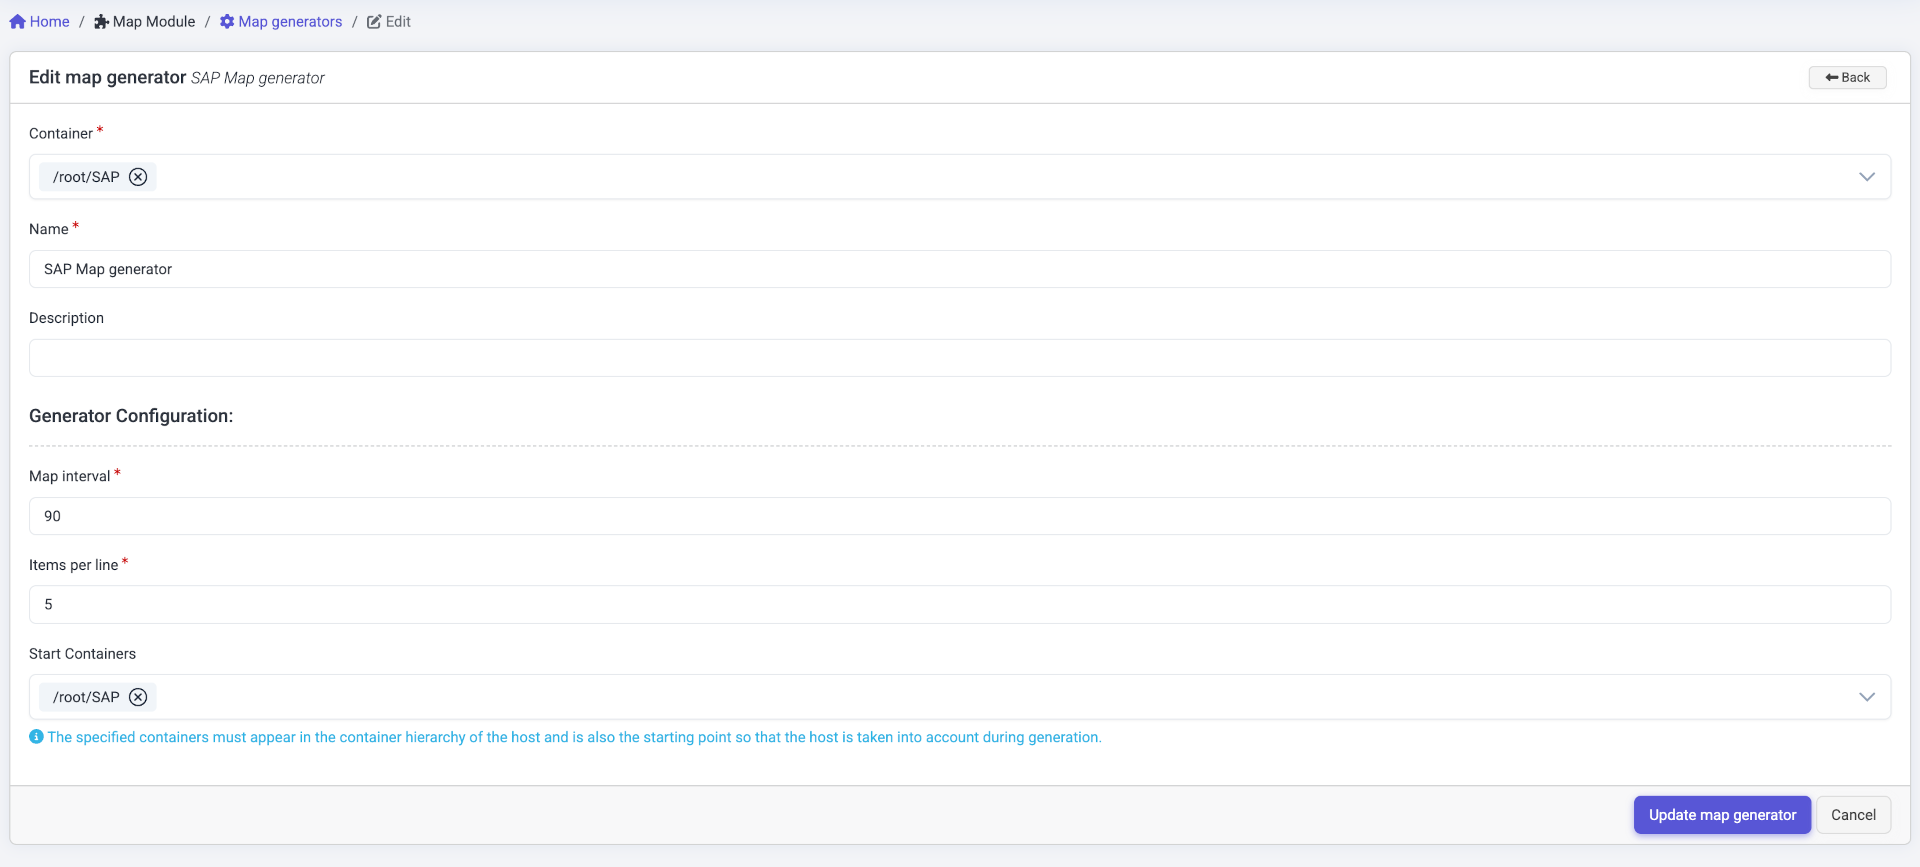
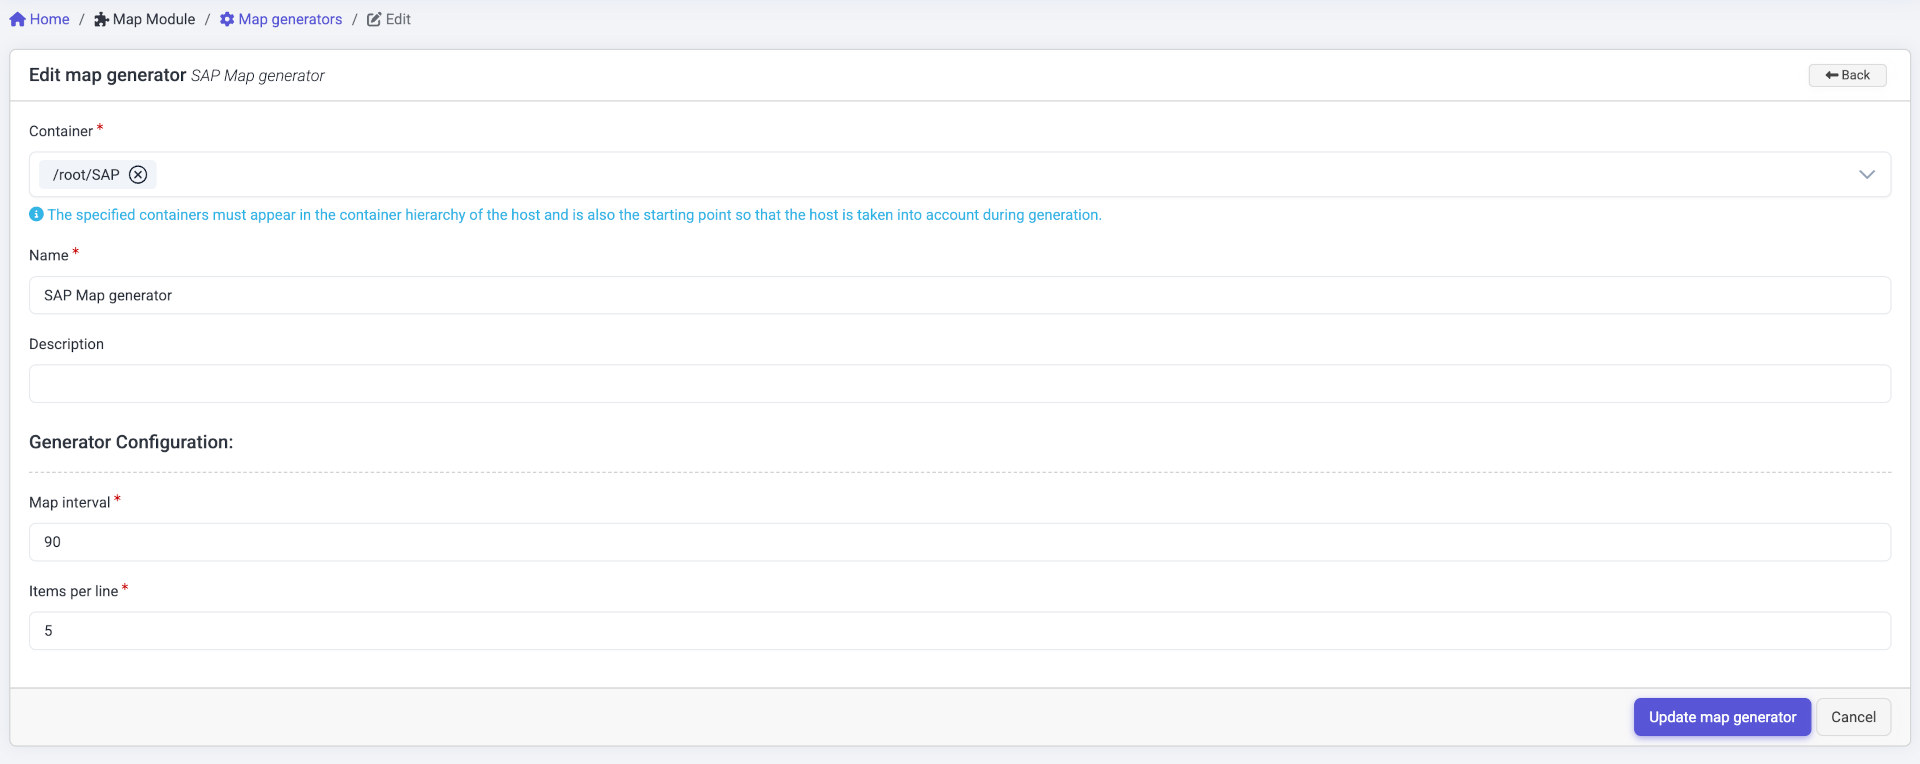
ITC-3484 - removed start_containers explanation

diff --git a/de/docs/monitoring/maps.md b/de/docs/monitoring/maps.md
@@ -187,15 +187,15 @@ Karten Generatoren können automatisch Karten mit Zusammenfassungselementen erst
 
 #### Generierung durch Container-Struktur
 
-Als Ausgangspunkt der Generierung dienen die Hosts. Es werden alle Hosts sowie Container von jeden Host bis zum Mandanten-Container berücksichtigt. Für jeden dieser Container wird eine Karte erstellt. Karten/Container, die hierarchisch in der Container-Struktur weiter unten stehen, werden den darüberliegenden Karten als Zusammenfassungselemente hinzugefügt, sodass die Container-Struktur durchgeklickt werden kann. Hosts werden ebenfalls der generierten Karte, die den zugewiesenen Container darstellt, als Zusammenfassungselemente hinzugefügt.
+Als Ausgangspunkt der Generierung dienen die Hosts. Es werden alle Hosts sowie Container von jeden Host bis zu den angegebenen Container berücksichtigt. Für jeden dieser Container wird eine Karte erstellt. Karten/Container, die hierarchisch in der Container-Struktur weiter unten stehen, werden den darüberliegenden Karten als Zusammenfassungselemente hinzugefügt, sodass die Container-Struktur durchgeklickt werden kann. Hosts werden ebenfalls der generierten Karte, die den zugewiesenen Container darstellt, als Zusammenfassungselemente hinzugefügt.
 
 ![](/images/mapmodule-mapgeneratormapexample.png)
 
-Die Generierung kann durch die Angabe von Start-Containern eingeschränkt werden. Wenn Start-Container definiert sind, muss einer dieser Container in der Container-Hierarchie des Hosts bis zum Mandanten-Container vorkommen. Andernfalls wird der Host sowie dessen Hierarchie ignoriert. Diese Start-Container bilden dann die ersten Container in der Hierarchie, anstelle des Mandanten-Containers.
+Die Generierung wird durch die Angabe von Containern eingeschränkt. Bei den angegebenen Containern, muss einer dieser Container in der Container-Hierarchie des Hosts bis zum Mandanten-Container vorkommen. Andernfalls wird der Host sowie dessen Hierarchie ignoriert. Diese Container bilden dann die ersten Container in der Hierarchie.
 
 ![](/images/mapmodule-mapgeneratorgeneratedmaps.png)
 
-Die generierten Karten erhalten den Mandanten-Container oder, bei Verwendung von Start-Containern, den jeweiligen Start-Container in der Hierarchie als zugewiesenen Container.
+Die generierten Karten erhalten den angegebenen Container, der in der Hierarchie vorkommt, als zugewiesenen Container.
 
 Das Feld „Elemente pro Zeile“ gibt an, wie viele Elemente in einer Reihe platziert werden, bevor ein Zeilenumbruch erfolgt.
 

diff --git a/en/docs/monitoring/maps.md b/en/docs/monitoring/maps.md
@@ -182,15 +182,15 @@ Map generators can automatically create maps with summary items.
 
 #### Generation through container structure
 
-The hosts serve as the starting point for generation. All hosts and containers from each host to the client container are taken into account. A map is created for each of these containers. Maps/containers that are further down the hierarchy in the container structure are added to the maps above them as summary items so that the container structure can be clicked through. Hosts are also added as summary items to the generated map representing the assigned container.
+The hosts serve as the starting point for the generation. All hosts and containers from each host up to the specified container are taken into account. A map is created for each of these containers. Maps/containers that are further down the hierarchy in the container structure are added to the maps above them as summary items so that the container structure can be clicked through. Hosts are also added as summary items to the generated map that represents the assigned container.
 
 ![](/images/mapmodule-mapgeneratormapexample.png)
 
-The generation can be restricted by specifying start containers. If start containers are defined, one of these containers must appear in the container hierarchy of the host up to the client container. Otherwise, the host and its hierarchy are ignored. These start containers then form the first containers in the hierarchy, instead of the client container.
+The generation will be restricted by the specification of containers. For the specified containers, one of these containers must occur in the container hierarchy of the host up to the client container. Otherwise, the host and its hierarchy are ignored. These containers then form the first containers in the hierarchy.
 
 ![](/images/mapmodule-mapgeneratorgeneratedmaps.png)
 
-The generated maps are assigned the client container or, if start containers are used, the respective start container in the hierarchy as the assigned container.
+The generated maps receive the specified container that occurs in the hierarchy as the assigned container.
 
 The “Items per line” field specifies how many items are placed in a row before a line break occurs.
 
